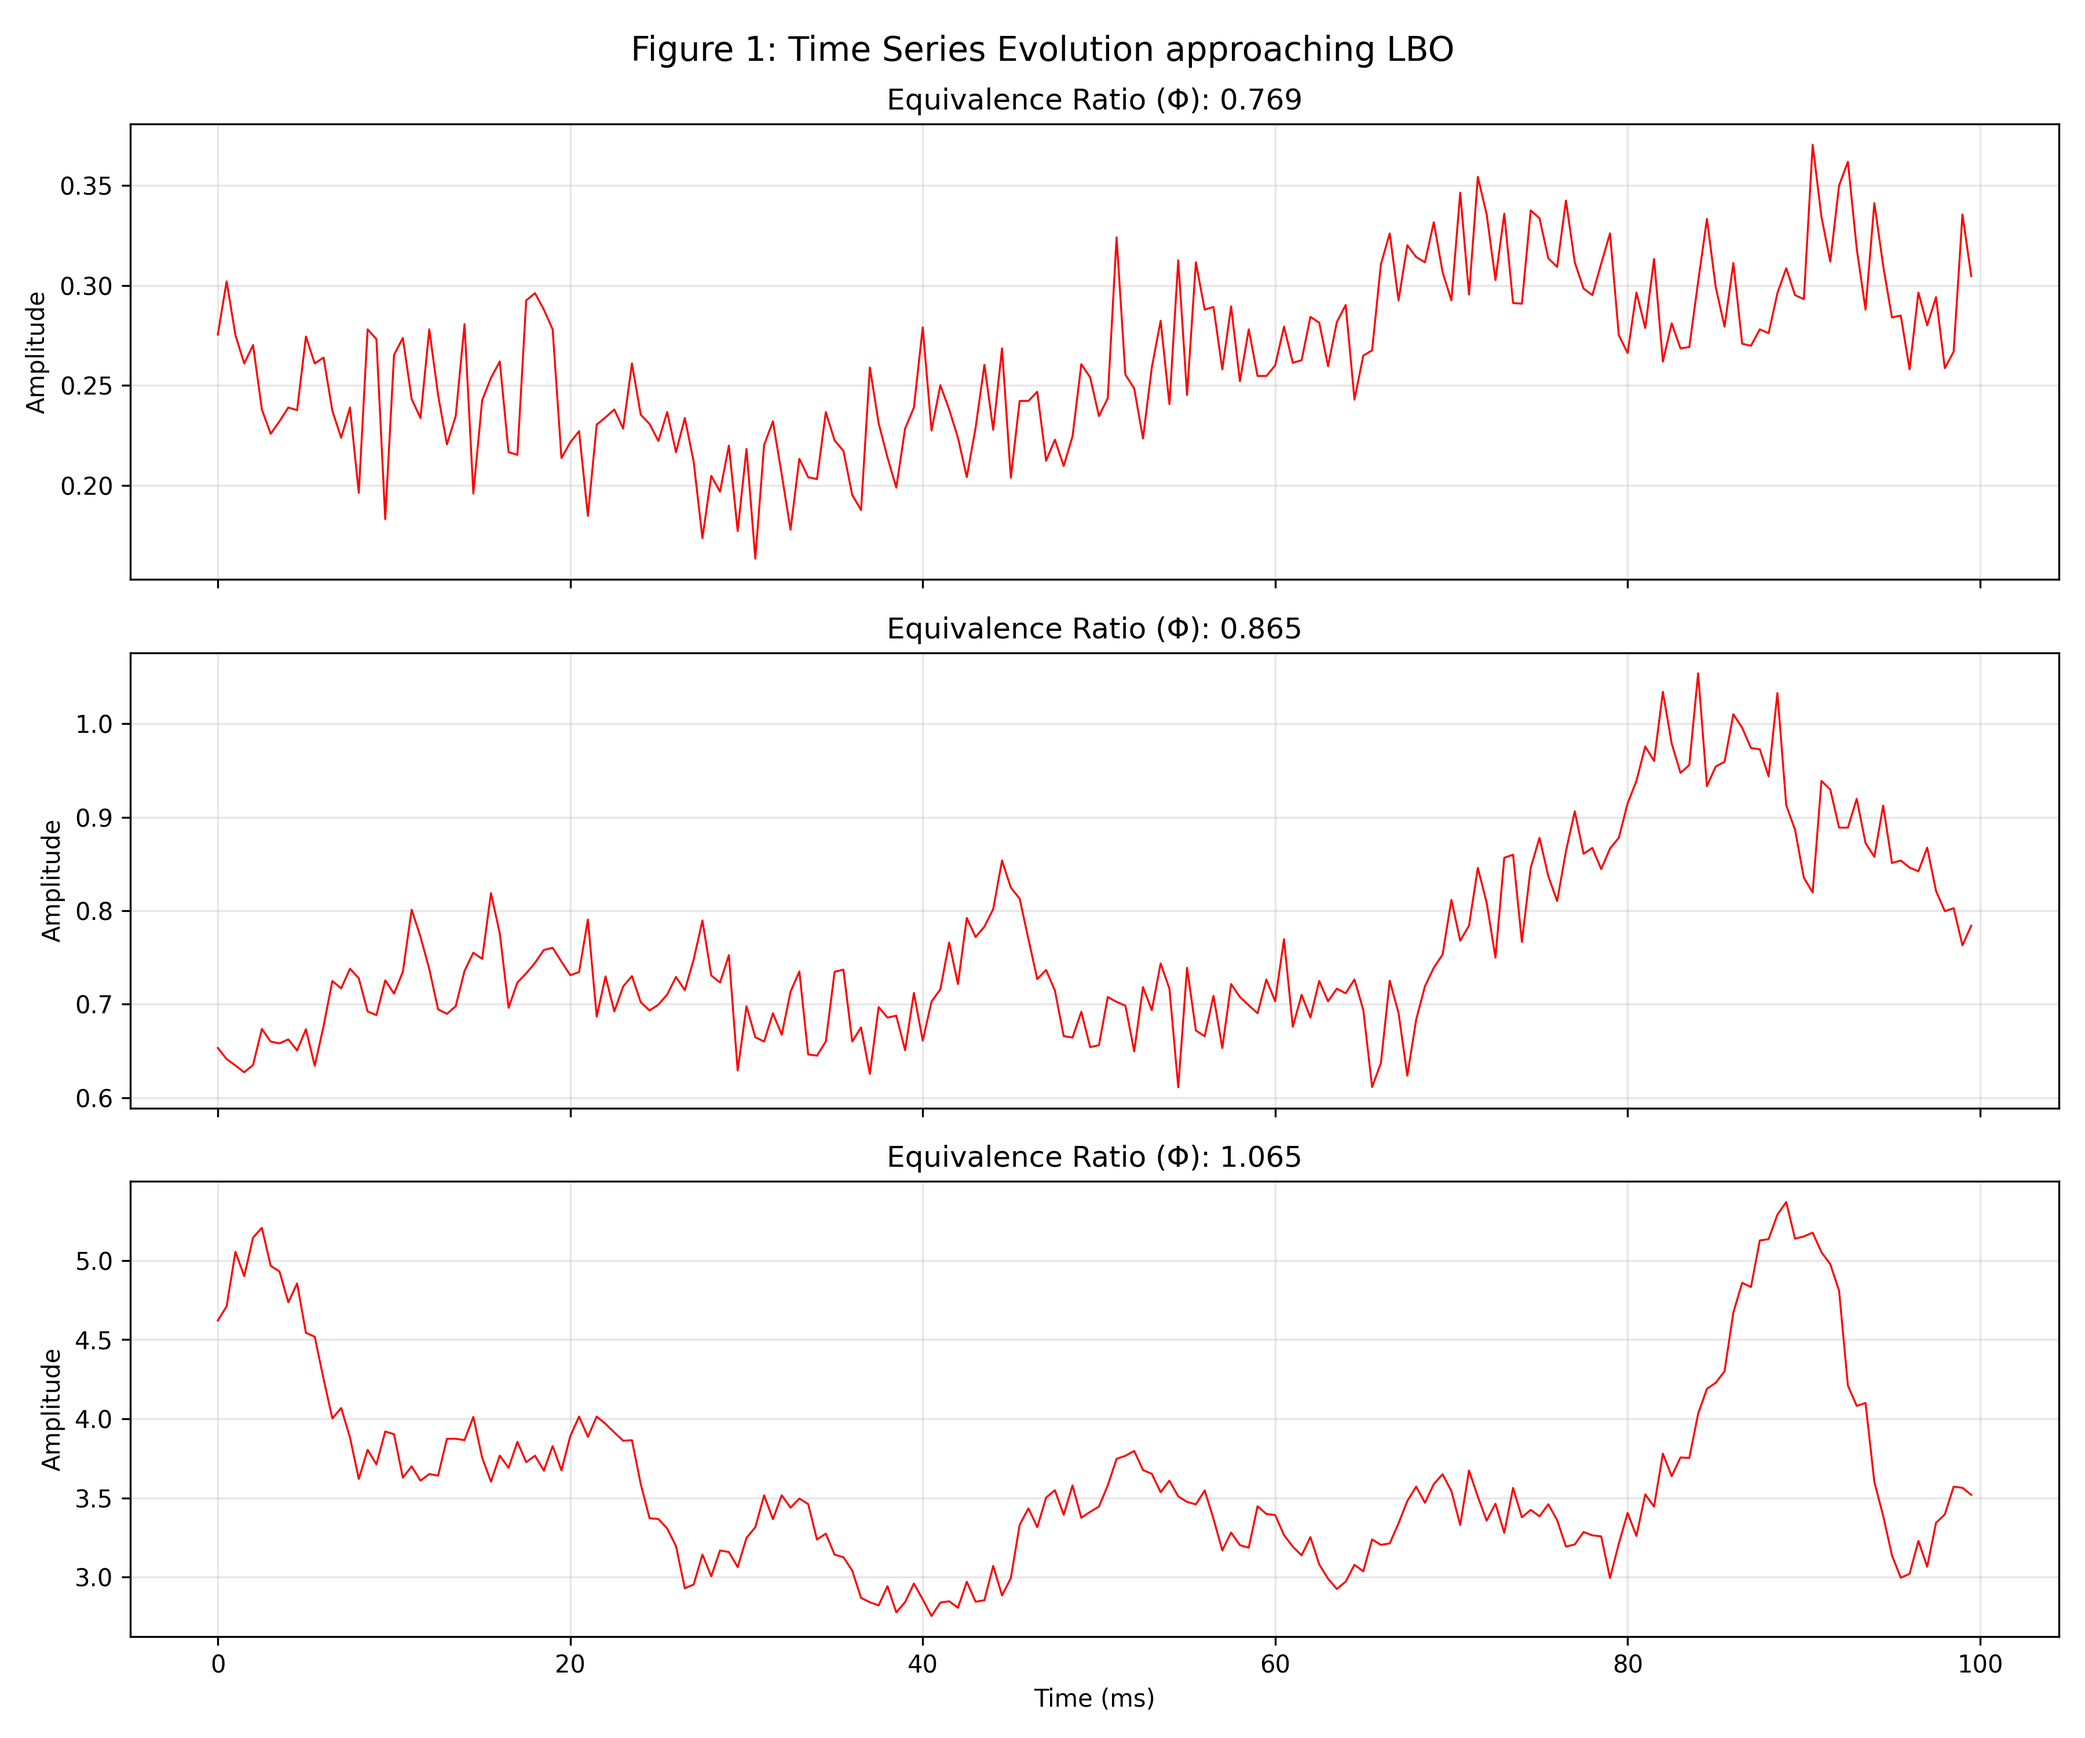
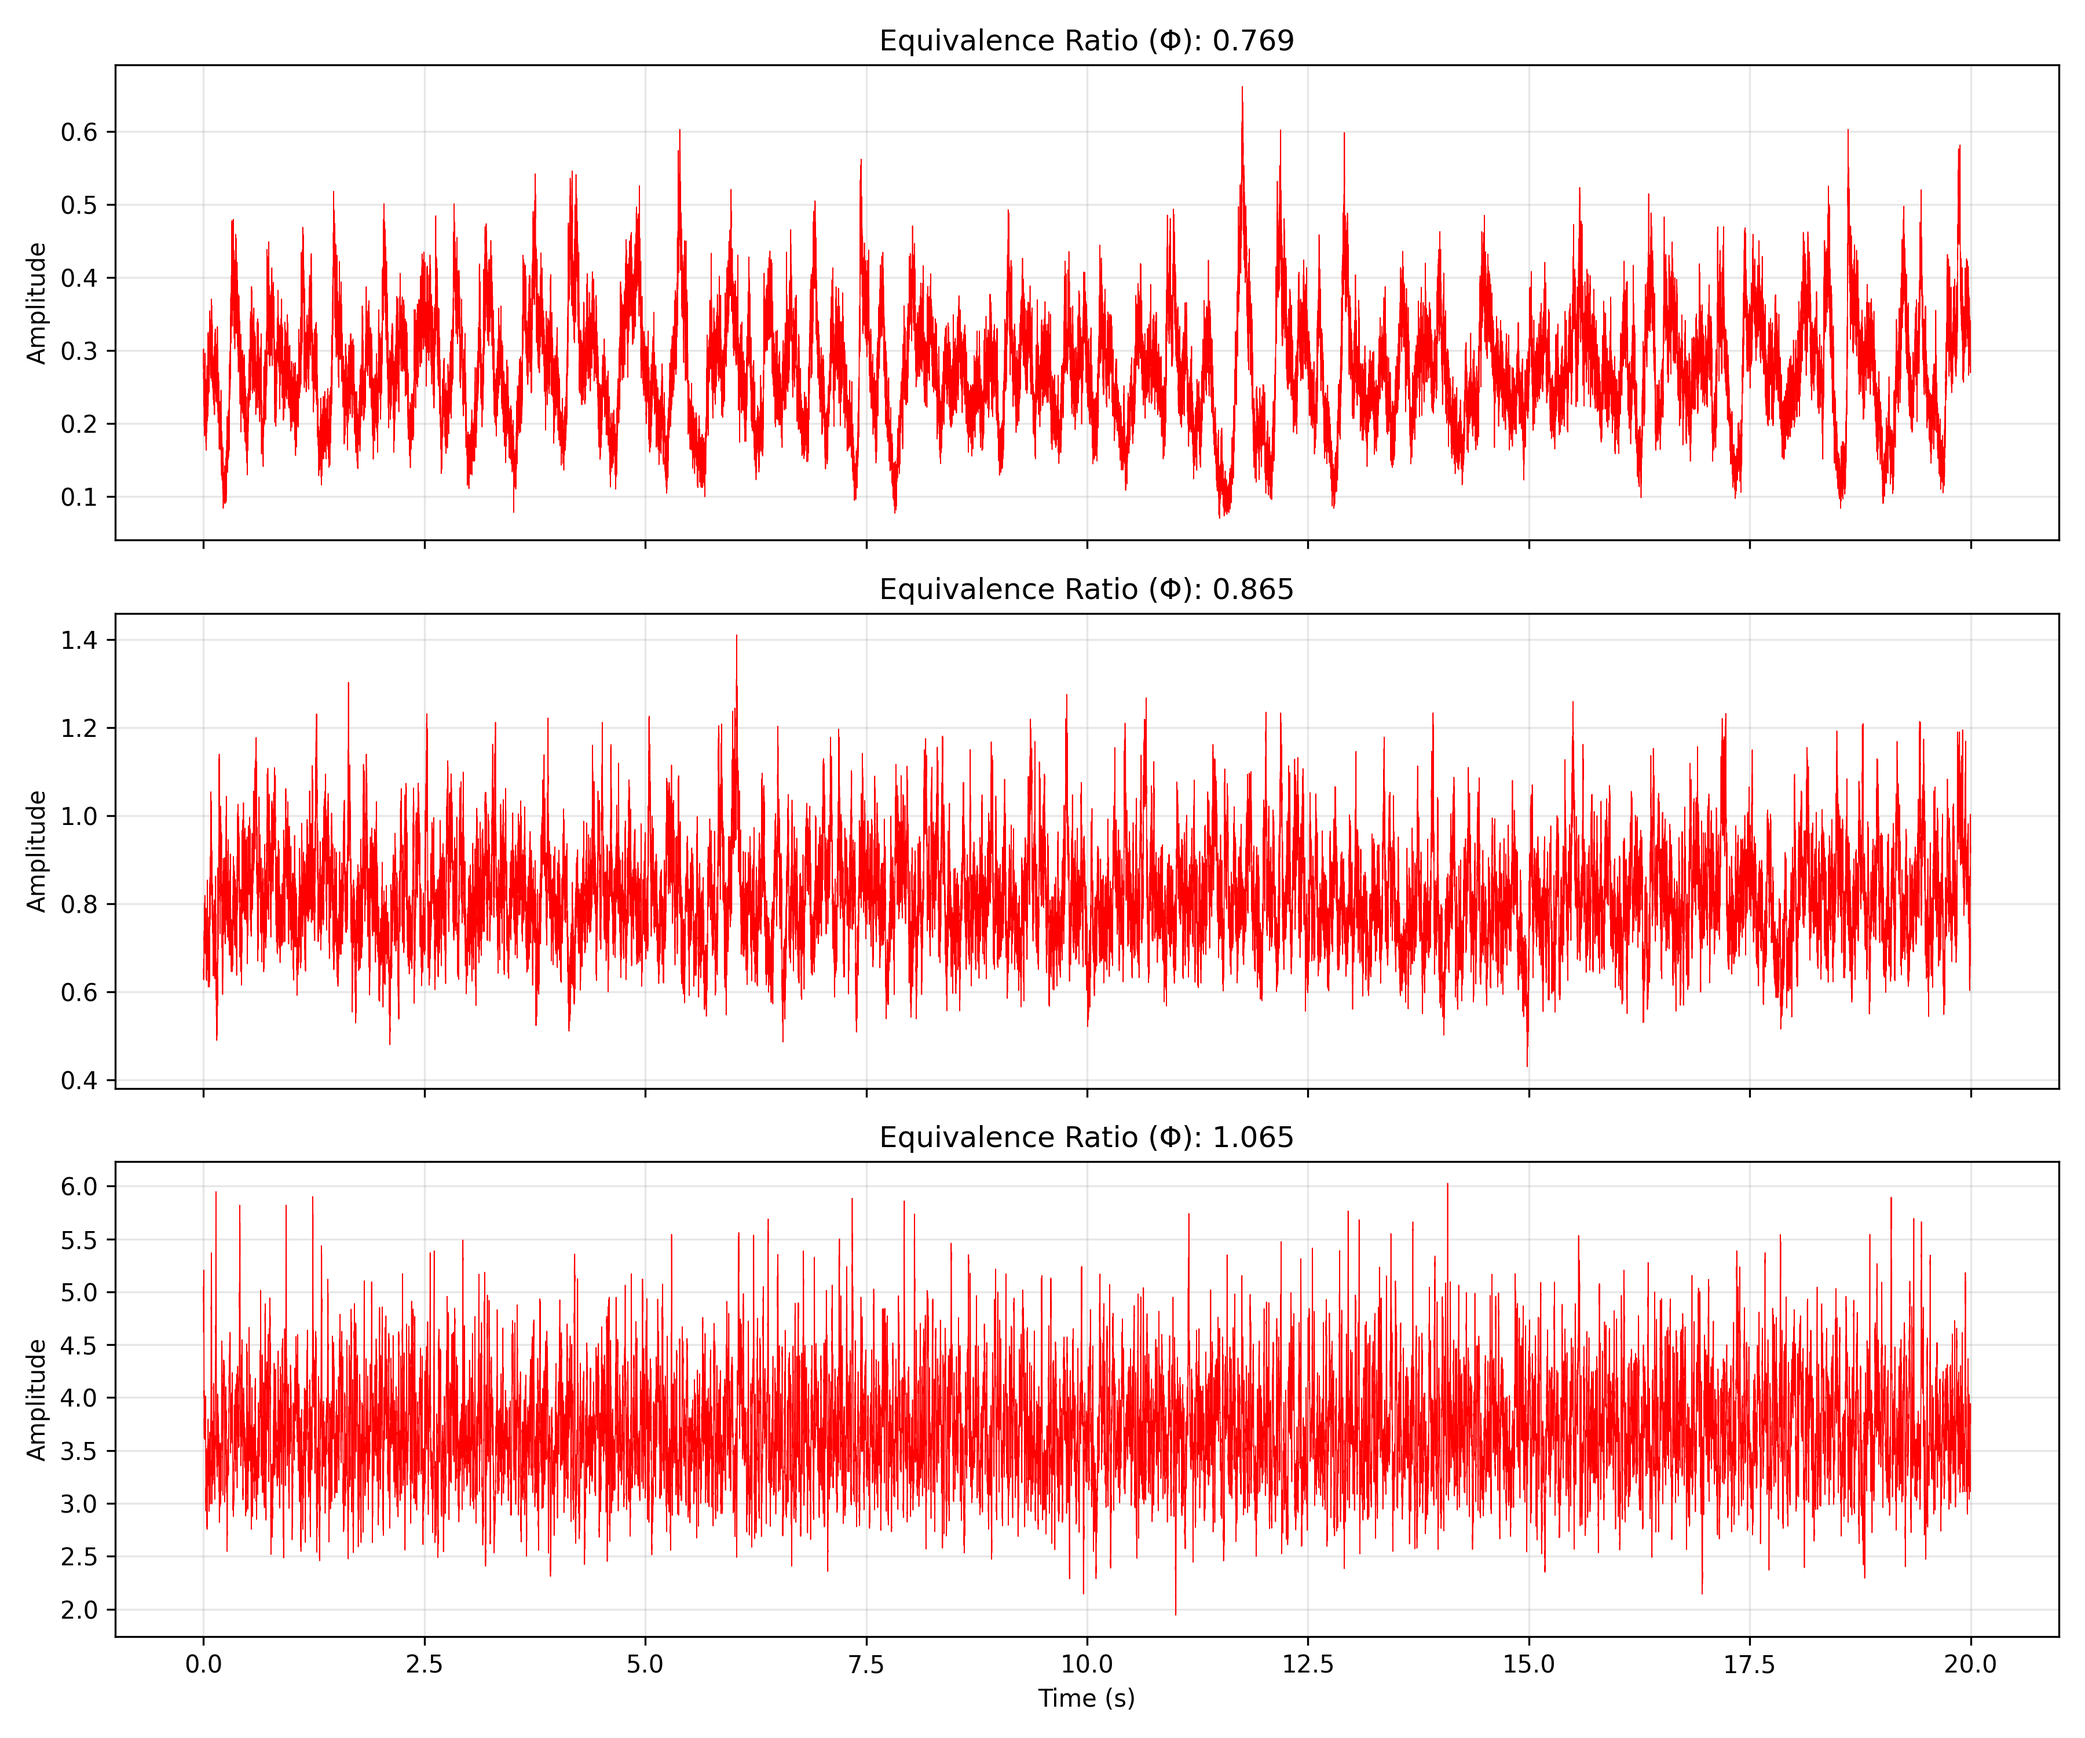
Added all 20s of code in graph instead of first 20 ms

diff --git a/LBO/Phase_Space_figure_6.py b/LBO/Phase_Space_figure_6.py
@@ -1,26 +1,10 @@
 """
 this file is to simulate the 6th figure
-the graph describes the phase space dynamics of LBO
-The fig includes:
-
-Phase Space plots (Amplitude vs delayed Amplitude)
-for three different equivalence ratios.
-
-We find:
-Stable (0.769) --> tight, small attractor at the center
-Transition (0.865) --> attractor begins to spread
-Near LBO (1.065) --> large, chaotic 'cloud' with no clear 
-periodicity, showing the onset of blowout precursors.
+the graph describes the phase space dynamics of LBO.
+Following Prof. De's instructions, we focus on the lowest 
+equivalence ratio (Phi) as the blowout point.
 """
 
-"""
-Prof De wants a phase space for LBO like we did for TAI.
-I am using a time delay (tau) to create the 2D plot.
-For LBO, we don't expect a circle (limit cycle), but 
-a chaotic attractor that shows the instability.
-"""
-
-# imports
 import pandas as pd
 import matplotlib.pyplot as plt
 import numpy as np
@@ -35,8 +19,9 @@ phi_name = "Equivalence ratio"
 # open the main data file
 df = pd.read_excel(main_file)
 
-# using the same indices for the story: 90, 80, and 65 SLPM
-plot_indices = [9, 3, 0]
+# Plot indices updated to match the physical story:
+# 65 SLPM (Stable/Highest Phi) -> 80 SLPM (Transition) -> 90 SLPM (Blowout/Lowest Phi)
+plot_indices = [0, 3, 9]
 
 fig, axes = plt.subplots(1, 3, figsize=(15, 5))
 
@@ -45,27 +30,33 @@ for i, idx in enumerate(plot_indices):
     air_value = row[air_name]
     phi_value = row[phi_name]
     
-    # open the file
     file_name = os.path.join(folder_path, str(int(air_value)) + ".xlsx")
     df1 = pd.read_excel(file_name, header=None, names=['Time', 'Amplitude'])
 
     # signal processing
     signal = df1['Amplitude'].to_numpy()
-    signal = signal - np.mean(signal) # centering
+    signal = signal - np.mean(signal) # centering for attractor focus
     
-    # define a time delay (tau) 
-    # for 44100Hz, a delay of 10-20 samples works well
+    # Time delay (tau). For LBO, 15-20 samples (approx 0.4ms) captures 
+    # the stochastic spread well.
     tau = 15 
     
     # plot the phase space (x(t) vs x(t + tau))
-    axes[i].plot(signal[:-tau], signal[tau:], color='black', linewidth=0.5, alpha=0.6)
+    axes[i].plot(signal[:-tau], signal[tau:], color='black', linewidth=0.5, alpha=0.4)
     
-    axes[i].set_title(f"Φ = {phi_value:.3f}")
+    # Dynamic title based on the state
+    state = "Stable" if air_value == 65 else "Transition" if air_value == 80 else "Lowest Phi (LBO)"
+    axes[i].set_title(f"{state}\nΦ = {phi_value:.3f}")
+    
     axes[i].set_xlabel("x(t)")
     axes[i].set_ylabel("x(t + τ)")
     axes[i].grid(True, alpha=0.2)
+    
+    # Consistent axis limits help visualize the growth of the attractor
+    axes[i].set_xlim(-2.5, 2.5)
+    axes[i].set_ylim(-2.5, 2.5)
 
-plt.suptitle("Figure 6: Phase Space Dynamics Approaching LBO")
+plt.suptitle("Figure 6: Phase Space Dynamics Approaching LBO (Corrected Mapping)")
 plt.tight_layout()
-plt.savefig("Figure_6_LBO_PhaseSpace.png", dpi=300)
+plt.savefig("Figure_6_LBO_PhaseSpace_Final.png", dpi=300)
 plt.show()

diff --git a/LBO/time_series_figure_1.py b/LBO/time_series_figure_1.py
@@ -18,6 +18,9 @@ raw signal --> steady oscillations at low Phi
 I am using the 'Equivalence ratio' column for the physics.
 Based on the datasheet, 90 SLPM is our most stable point (0.769)
 and 65 SLPM is our blowout point (1.065).
+
+Prof mentioned we should plot the FULL time series (20 seconds)
+instead of the earlier 100 ms window so the intermittency can be seen clearly.
 """
 
 # imports
@@ -28,7 +31,6 @@ import os
 
 # variables
 folder_path = "LBO" 
-name1 = "Figure 1: Time Series Evolution approaching LBO"
 main_file = os.path.join(folder_path, "Data details.xlsx")
 air_name = "Air (SLPM)"
 phi_name = "Equivalence ratio"
@@ -57,22 +59,18 @@ for i, idx in enumerate(plot_indices):
     delta_t = df1['Time'].iloc[1] - df1['Time'].iloc[0]
     fs = 1 / delta_t
     
-    # time axis in ms starting from zero
-    time_ms = (df1['Time'] - df1['Time'].iloc[0]) * 1000
+    # time axis in seconds starting from zero
+    time_s = df1['Time'] - df1['Time'].iloc[0]
 
-    # plot 100ms window to show individual oscillations
-    num_samples = int(0.1 * fs)
-    axes[i].plot(time_ms[:num_samples], df1['Amplitude'][:num_samples], color='red', linewidth=0.8)
+    # plotting the FULL signal (~20 seconds)
+    axes[i].plot(time_s, df1['Amplitude'], color='red', linewidth=0.4)
     
     # labeling with Equivalence ratio per Prof De's request
     axes[i].set_title(f"Equivalence Ratio (Φ): {phi_value:.3f}")
     axes[i].set_ylabel("Amplitude")
     axes[i].grid(True, alpha=0.3)
 
-plt.xlabel("Time (ms)")
-plt.suptitle(name1, fontsize=14)
+plt.xlabel("Time (s)")
 plt.tight_layout()
 plt.savefig("Figure_1_TimeSeriesLBO.png", dpi=300)
 plt.show()
-
-

diff --git a/LBO/Probability_density_function_figure_7_2.py b/LBO/Probability_density_function_figure_7_2.py
@@ -44,7 +44,7 @@ df = pd.read_excel(main_file)
 plt.figure(figsize=(10, 6))
 
 # using the same indices for the story: 90, 80, and 65 SLPM
-plot_indices = [9, 3, 0]
+plot_indices = [9, 0]
 colors = ['tab:blue', 'tab:orange', 'tab:green']
 
 # loop thru the selected data points
@@ -78,13 +78,7 @@ for i, idx in enumerate(plot_indices):
         
         p = norm.pdf(x, mu, std)
         
-        plt.plot(
-            x, p,
-            'k--',
-            linewidth=1.5,
-            label='Theoretical Gaussian'
-        )
-    
+
     # calculate and plot the PDF using a density histogram
     # density=True ensures total area = 1 (proper PDF)
     plt.hist(
@@ -100,11 +94,11 @@ for i, idx in enumerate(plot_indices):
 # formatting for the paper per Prof De's feedback
 plt.xlabel("Normalized Amplitude (I / I_mean)")
 plt.ylabel("Probability Density")
-plt.title("Figure 7.2: PDF Evolution nearing LBO")
+plt.title("Figure 7: PDF Evolution nearing LBO")
 plt.grid(True, alpha=0.3)
 plt.legend(title="Equivalence Ratio (Φ)")
 plt.tight_layout()
 
 # saving for git
-plt.savefig("Figure_7_2_LBO_PDF.png", dpi=300)
+plt.savefig("Figure_7_LBO_PDF.png", dpi=300)
 plt.show()

diff --git a/LBO/Normalized_Cumulative_Distribution_figure_3.py b/LBO/Normalized_Cumulative_Distribution_figure_3.py
@@ -73,9 +73,9 @@ plt.plot(df[x_axis_col], theta_values, marker='o', linestyle='-', color='tab:red
 # labeling for the paper
 plt.xlabel("Fi/FI_LBO")
 plt.ylabel('Theta (Θ)')
-plt.title('Figure 3: Threshold Intermittency (LBO)')
+plt.title('Figure 3: Normalized cumulative duration of precursor events (Θ) near LBO')
 plt.grid(True, alpha=0.3)
 
 # saving for git
-plt.savefig("Figure_3_LBO_Theta.png", dpi=300)
+plt.savefig("Figure_3_LBO_Theta_revised.png", dpi=300)
 plt.show()

diff --git a/LBO/Autocorrelation_Graph_Figure_5.py b/LBO/Autocorrelation_Graph_Figure_5.py
@@ -42,12 +42,7 @@ for item in configs:
     rxx = corr[center : center + max_lag] / corr[center]
     lag_time_ms = (np.arange(max_lag) / fs) * 1000
 
-    if air_val == 65:
-        phi_val = 0.768979855
-    elif air_val == 80:
-        phi_val = 0.865102337
-    elif air_val == 90:
-        phi_val = 1.064741338
+
 
     # Forcing the color to the specific SLPM/Phi
     plt.plot(lag_time_ms, rxx, label=f"Φ = {phi_val:.3f}", color=item['color'])

diff --git a/LBO/NRMS_vs_Normalized_Equivalence_Ratio_figure_7_1.py b/LBO/NRMS_vs_Normalized_Equivalence_Ratio_figure_7_1.py
@@ -55,7 +55,7 @@ plt.plot(df[x_axis_col], nrms_values, marker='s', color='tab:blue', label='Exper
 
 plt.xlabel("Normalized Equivalence Ratio (Φ/Φ_lbo)")
 plt.ylabel('NRMS')
-plt.title('Figure 7.1: NRMS vs Normalized Equivalence Ratio')
+plt.title('Figure 6: NRMS vs Normalized Equivalence Ratio')
 plt.grid(True, alpha=0.3)
-plt.savefig("Figure_7_1_NRMS.png", dpi=300)
+plt.savefig("Figure_6_NRMS.png", dpi=300)
 plt.show()
